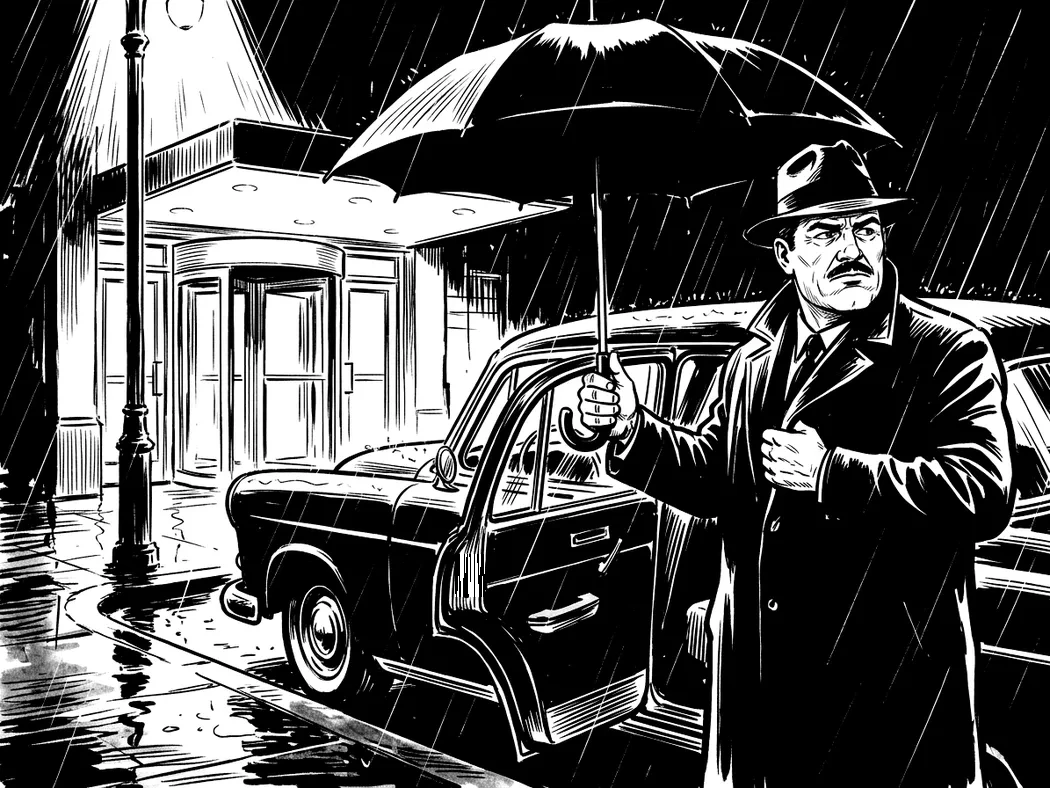
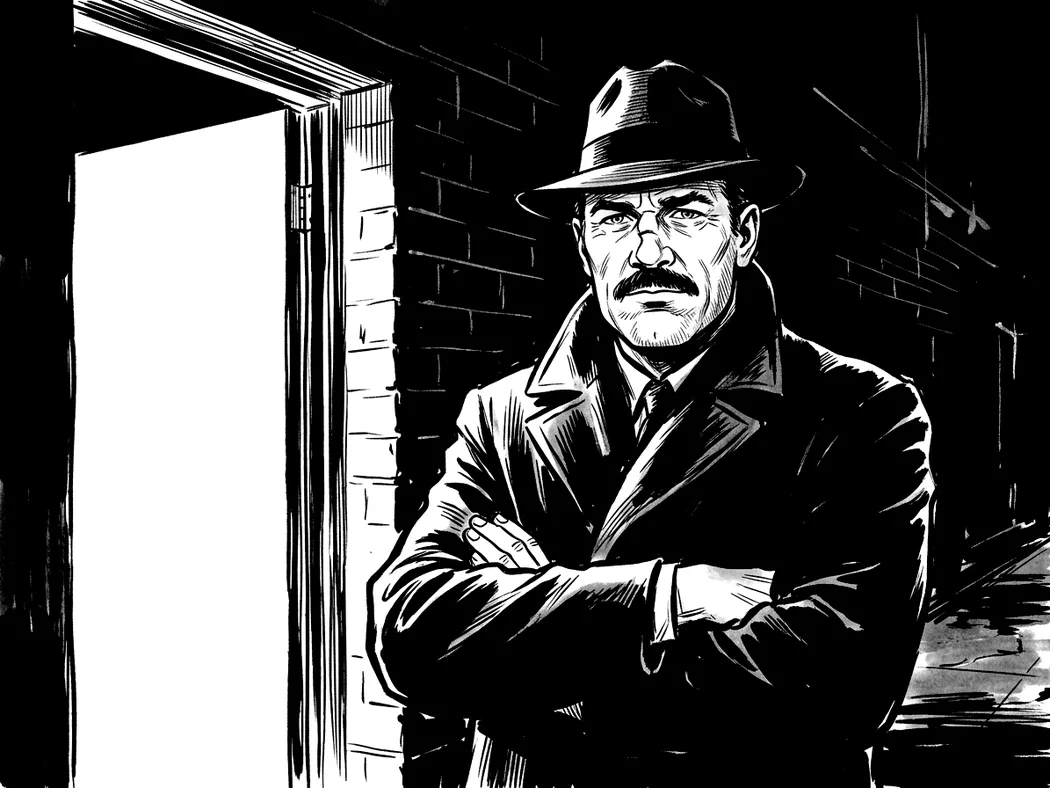
Rollporträtt för livvakten och advokaten (man), och advokaten i nattbilden bytt (Jonas 2026-11-14)
Rollbilderna visar personen, inte uppgiften: bröstbild, ansiktet i ljuset
och blicken mot oss. Porträttmallen står i docs/bilder-och-prompter.md.

Claude-Session: https://claude.ai/code/session_01X82C4BzSyZ6nVrxMwGkML4

diff --git a/src/scenes/sceneImages.js b/src/scenes/sceneImages.js
@@ -88,10 +88,10 @@ export const SCENE_IMAGES = /** @type {const} */ ({
   roleDetectiveMan: { src: roleDetectiveMan, alt: 'En manlig detektiv i mörk trenchcoat och hatt antecknar i ett block i en regnig gränd.', position: '75% 30%' },
   roleDoctorWoman: { src: roleDoctorWoman, alt: 'En läkare i mörk kappa med stetoskop och läkarväska står i en upplyst dörröppning.', position: '100% 30%' },
   roleBodyguardWoman: { src: roleBodyguardWoman, alt: 'En smal livvakt i bältad rock och liten hatt håller upp ett paraply vid en svart bils öppna bakdörr en regnig natt utanför ett hotell, med handen vid rockslaget.', position: '80% 30%' },
-  roleBodyguardMan: { src: roleBodyguardMan, alt: 'En stor livvakt med mustasch, i rock och fedora, håller upp ett paraply vid en svart bils öppna bakdörr en regnig natt utanför ett hotell, med handen innanför rocken.', position: '80% 30%' },
+  roleBodyguardMan: { src: roleBodyguardMan, alt: 'En stor livvakt med mustasch, i rock och fedora, står med armarna i kors vid en upplyst port en natt och ser rakt på oss.', position: '90% 30%' },
   roleDoctorMan: { src: roleDoctorMan, alt: 'En läkare med glasögon och mustasch, i mörk kappa med stetoskop och läkarväska, står i en upplyst dörröppning.', position: '100% 30%' },
   roleLawyerWoman: { src: roleLawyerWoman, alt: 'En advokat i mörk dräkt och liten hatt kliver med portföljen i handen ut ur ljuset från en glasdörr i tingshusets mörka korridor.', position: '85% 30%' },
-  roleLawyerMan: { src: roleLawyerMan, alt: 'En advokat med mustasch, i kostym med väst och hatt, kliver med portföljen i handen ut ur ljuset från en glasdörr i tingshusets mörka korridor.', position: '85% 30%' },
+  roleLawyerMan: { src: roleLawyerMan, alt: 'En advokat i kritstrecksrandig kostym med väst och lossad slips lutar sig i dörren till sin upplysta byrå med en tjock akt under armen och ler lite slugt.', position: '100% 30%' },
   roleCitizenWoman: { src: roleCitizenWoman, alt: 'En kvinna i blommig klänning står i sin öppna ytterdörr och ser ut i mörkret med handen mot dörrkarmen.', position: '75% 30%' },
   roleCitizenMan: { src: roleCitizenMan, alt: 'En man i keps och kofta tittar misstänksamt ut genom sin ytterdörr.', position: '100% 30%' },
   roleTaxiDriverWoman: { src: roleTaxiDriverWoman, alt: 'En taxichaufför i skärmmössa och skinnrock sitter vid ratten en regnig natt utanför ett hotell.', position: '100% 30%' },
@@ -118,7 +118,7 @@ export const SCENE_IMAGES = /** @type {const} */ ({
   nightBodyguardMan: { src: nightBodyguardMan, alt: 'En stor livvakt i rock och hatt står vakt med händerna i fickorna bredvid en stängd dörr, i ljuset från en gatlykta en regnig natt.', position: '85% 50%' },
   nightDoctorMan: { src: nightDoctorMan, alt: 'En man i hatt och rock med en läkarväska går ensam längs en regnig gata en natt under en gatlykta.', position: '65% 50%' },
   nightLawyerWoman: { src: nightLawyerWoman, alt: 'En advokat i dräkt och liten hatt sitter vid ett köksbord under en hängande lampa och antecknar. Mitt emot syns bara klientens händer med en cigarett.', position: '75% 50%' },
-  nightLawyerMan: { src: nightLawyerMan, alt: 'En advokat med mustasch, i kostym, sitter vid ett köksbord under en hängande lampa och antecknar. Mitt emot syns bara klientens händer med en cigarett.', position: '75% 50%' },
+  nightLawyerMan: { src: nightLawyerMan, alt: 'En gråsprängd advokat i kritstrecksrandig kostym sitter vid ett köksbord under en hängande lampa och antecknar. Mitt emot syns bara klientens händer med en cigarett.', position: '75% 50%' },
   nightCitizenWoman: { src: nightCitizenWoman, alt: 'En kvinna sover i sin säng. Genom fönstret syns en gestalt i hatt under en gatlykta i regnet.', position: '65% 50%' },
   nightCitizenMan: { src: nightCitizenMan, alt: 'En man sover i sin säng. Genom fönstret syns en gestalt i hatt under en gatlykta i regnet.', position: '65% 50%' },
   nightTaxiDriverWoman: { src: nightTaxiDriverWoman, alt: 'En taxichaufför i skärmmössa sitter vid ratten och ser en gestalt i hatt gå ensam på en regnig gata.', position: '50% 50%' },

diff --git a/docs/bilder-och-prompter.md b/docs/bilder-och-prompter.md
@@ -37,6 +37,18 @@ Original characters only. No text, no speech bubbles, no captions, no panel bord
 ```
 "Composition" handlar bara om bildens upplägg; detaljer om platsen hör hemma i "Scene".
 
+### Rollbilder: porträttmall
+
+Rollbilderna är porträtt av personen, inte scener om uppgiften (Jonas 2026-11-14). Använd mallen ovan men stryk meningarna "Show a moment of action rather than a posed portrait." och "Faces are simply drawn and often partly hidden …", och regn när scenen är inomhus. Personen har en egen karaktär (ålder, ansikte, hållning) och rollen märks på en enda sak. Ansiktet ligger i ljuset och blicken går mot oss. Skicka gärna `roll-maffia-kvinna`, `roll-bartender-kvinna` och `roll-taxichauffor-man` som stilreferenser.
+
+```
+Scene: a portrait of <rollen> at night, <ålder, ansikte, kläder>. <Var personen står och den enda saken som visar rollen>. <Ljuset> falls across his/her face. He/She looks straight at us, <min>. His/Her face is clearly visible in the white light, simply drawn with a few firm lines. <Bakgrunden> dissolve(s) into solid black. Exactly one person. No other people are present.
+
+Composition: wide 4:3 frame, chest-up portrait, eye-level camera, the figure a little right of centre, strong contrast between white light and deep black shadows.
+```
+
+`scripts/generera-bild.py` bygger alltid prompten ur mallen ovan, så porträttprompten har hittills skickats som hel prompt.
+
 ## Bilder som finns
 Alla vyer har nu riktiga bilder. Alla prompter finns i `maffia/alla-bildprompter.md` i projektfilerna (den äldre `bildprompter.md` har de första versionerna).
 - Startsidan: staden ovanifrån i regn, man under gatlykta (kvadratisk, beskärs till stående).

diff --git a/docs/bildsmak.md b/docs/bildsmak.md
@@ -187,6 +187,19 @@ en regel.
   (högklackat, litet och lite sött ansikte, fedora i stället för rollbildens
   runda hatt, bakgrunden nästan kopierad): "Dina iakttagelser är bra, men vi
   kör på denna ändå."
+- 2026-11-14, `roll-advokat-*` och `roll-livvakt-*` jämförda med de äldre
+  rollbilderna: "Jag tycker att de gamla rollbilderna mer fokuserar på
+  personen än uppgiften. Och stilmässigt tycker jag också det är en annan
+  känsla." Förslaget att rollbilderna får en egen porträttmall: "Låter bra.
+  Börja med livvakt och advokat man."
+- 2026-11-14, `roll-livvakt-man` som porträtt (armarna i kors vid en upplyst
+  port) och `roll-advokat-man` som porträtt (lutar sig i dörren till byrån med
+  akten under armen): "Jag tycker båda är bra!"
+- 2026-11-14, `natt-advokat-*` efter de nya rollporträtten: "Antar att
+  nattbilderna för advokat också måste göras om, så att rätt advokat sitter
+  där. Men annars gillar jag utseendet på dem jättemycket." `natt-advokat-man`
+  redigerades så att porträttets advokat sitter vid bordet, med resten av
+  bilden orörd.
 
 ## Bilder att byta
 

diff --git a/docs/bildstil.md b/docs/bildstil.md
@@ -45,6 +45,9 @@ detaljer. Spänning och misstänksamhet, aldrig splatter.
   berättarens textrutor.
 - **Rollporträtt:** bröstbild, kameran i ögonhöjd (maffian och gudfadern
   lite underifrån), personen ser in i bilden eller mot betraktaren.
+  Rollbilden visar personen, inte uppgiften: ansiktet i ljuset, en egen
+  karaktär och en enda sak som visar rollen. Ögonblicket och det dolda
+  ansiktet hör till natt-, morgon- och dombilderna (Jonas 2026-11-14).
 - **Nattbilder:** rollen gör sin sak i natten, sedd lite på avstånd: läkaren
   går med sin väska, detektiven läser en akt, stadsbon sover.
 
